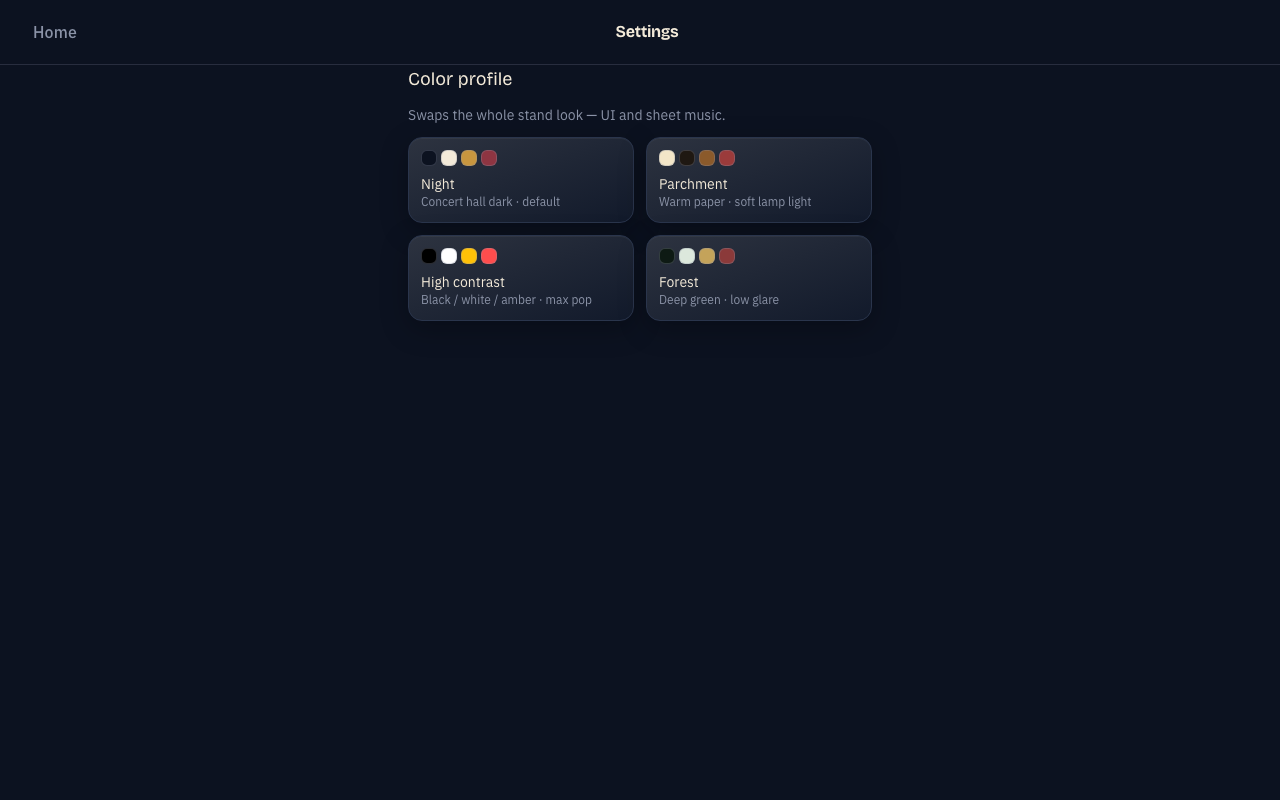
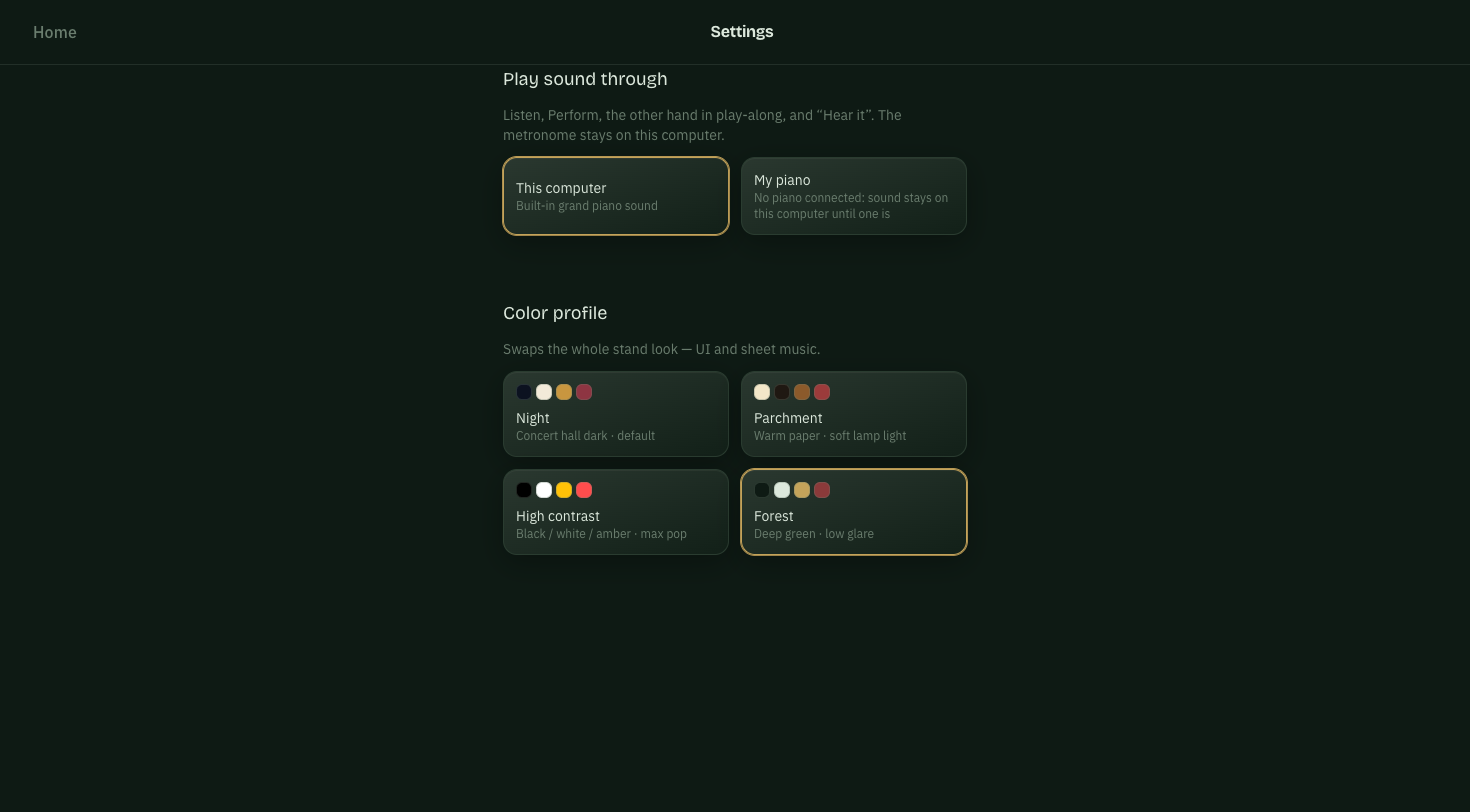
README: Forest-theme screenshots, add Perform (Every note / Assisted)

Changed region(s): [[0.3125, 0.0625, 0.6875, 0.6875], [0.4688, 0.0312, 0.5312, 0.0625], [0.0312, 0.0312, 0.0625, 0.0625]]

diff --git a/README.md b/README.md
@@ -28,7 +28,7 @@ Self-report (Hit / Miss) exists as a fallback when no keyboard is available, but
    - **Learn** waits for you to play each step on your keyboard. You can hear a bar or a line first.
    - **Play along** keeps time with a metronome and a one-bar count-in. It grades every note as on time, early, late, missed or wrong, colours the noteheads, and ends with a results card.
    - **Listen** plays the piece, a bar or a line, with the sustain pedal.
-   - **Perform** works like Concert Magic: any key plays the next notes, loud or soft as you press, at your pace. It always plays the whole song, both hands. Choose **Every note** (a press for each new note) or **Assisted** (a press for every note down to eighth notes, triplets included; faster 16ths and 32nds play by themselves). A press always plays the next note that hasn't sounded yet, so it never skips: press for each 16th and you get each one at your speed, press eighths and the 16ths fill in. Assisted never plays faster than written (at your tempo setting): press faster and each note waits for its time; press slower and it follows you. A press that comes much too soon (a rolled chord, a double hit) is ignored. Keys switches the piano's Local Control off while you perform, so only the music sounds, and back on when you leave; if your piano ignores that, turn Local Control off on the piano. Once you use the sustain pedal, notes last as long as their keys and the pedal holds them, as on a piano.
+   - **Perform** works like Concert Magic: any key plays the next notes, loud or soft as you press, at your pace. It always plays the whole song, both hands. Choose **Every note** (a press for each new note) or **Assisted** in the transport bar (a press for every note down to eighth notes, triplets included; faster 16ths and 32nds play by themselves). A press always plays the next note that hasn't sounded yet, so it never skips: press for each 16th and you get each one at your speed, press eighths and the 16ths fill in. Assisted never plays faster than written (at your tempo setting): press faster and each note waits for its time; press slower and it follows you. A press that comes much too soon (a rolled chord, a double hit) is ignored. Keys switches the piano's Local Control off while you perform, so only the music sounds, and back on when you leave; if your piano ignores that, turn Local Control off on the piano. Once you use the sustain pedal, notes last as long as their keys and the pedal holds them, as on a piano.
 3. Choose **RH / LH / Both** and the tempo. Click and drag across bars on the sheet, or on the **bar strip** under it, to practise just those bars. Click any bar to go there (that clears the selection). **← →** move by bar, and **Space** plays, pauses or skips.
 
 **Practice options** (top right) are switches, saved with each piece:
@@ -61,6 +61,10 @@ Imported pieces and practice history stay in this browser's IndexedDB on your ma
 | Practice options | Pieces |
 | --- | --- |
 | ![Practice options](docs/screenshots/06-practice-options.png) | ![Pieces](docs/screenshots/07-library.png) |
+
+**Perform** with **Assisted** chosen in the transport bar:
+
+![Perform](docs/screenshots/08-perform.png)
 
 ## Also included
 
